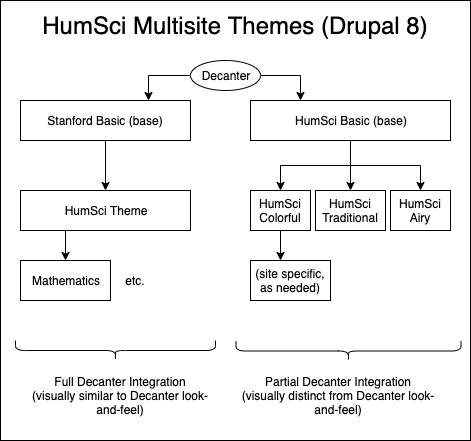
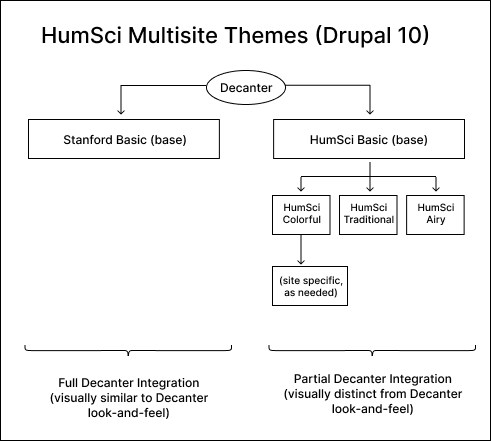
fix(shs-6015): review and update humsci basic readme

diff --git a/docroot/themes/humsci/humsci_basic/readme.md b/docroot/themes/humsci/humsci_basic/readme.md
@@ -1,13 +1,13 @@
 # Humsci Basic (humsci_basic) Theme
 
-Humsci Basic (humsci_basic) is a theme that can be used as a base for future H&S themes. We have pulled patterns and templates for Humsci Basic from Stanford Basic (stanford_basic) and Stanford University Humsci Theme (su_humsci_theme) Themes. Humsci Basic integrates selectively with Decanter (v6) Sass, styles, and patterns.
+Humsci Basic (humsci_basic) is a theme that can be used as a base for future H&S themes. We have pulled patterns and templates for Humsci Basic from Stanford Basic (stanford_basic) Theme. Humsci Basic integrates selectively with Decanter (v6) Sass, styles, and patterns.
 
 ![Humsci Theme Diagrams](humsci-theme-diagram.png)
 
 ## Requirements
 
-- Drupal 8.7.10
-- Node 10.15+
+- Drupal 10.3.0
+- Node 22
 
 ## Sub-themes
 
@@ -28,7 +28,7 @@ This theme contains its own node module dependencies and build system which is s
 Frontend assets are built using the Grunt task runner, but are run using npm scripts as shortcuts. CSS assets are compiled to their respective child theme `css/` directory. JS assets are compiled to the `scripts/build/scripts.js` file.
 
 - `npm start` - Runs the build task followed by the watch task
-- `npm run build` - Compile Sass  and JS for production
+- `npm run build` - Compile Sass and JS for production
 - `npm run watch` - Compile a CSS and JS build and watch for changes in the existing `.scss` or `.js` files
 
 ### Browserslist
@@ -66,7 +66,7 @@ We use the [Sass True](https://github.com/oddbird/true) testing framework to tes
 
 ### Linting
 
-We use [stylelint](https://stylelint.io/) to lint all of our Sass code to maintain a consistent code style.
+We use [stylelint](https://stylelint.io/) to lint all of our Sass code to maintain a consistent code style. To test it you can run: `npm run lint:sass`
 
 Our linting rules use the [Sparkbox Stylelint Config](https://github.com/sparkbox/stylelint-config-sparkbox) as a base for our linting rules.
 
@@ -106,21 +106,23 @@ _Note: Differences in content will also be reported as failures. Some failures c
 To make it easier to find work being done we should use the following naming conventions:
 
 ### Branch Names:
-`STN-XXX--descriptive-message`
+`SHS-XXX--descriptive-message`
 
 #### Commit Messages:
-`feat(STN-XXX): descriptive message shorter than 80 chars`
-`fix(STN-XXX): descriptive message shorter than 80 chars`
-`refactor(STN-XXX): descriptive message shorter than 80 chars`
-`chore(STN-XXX): descriptive message shorter than 80 chars`
-`docs(STN-XXX): descriptive message shorter than 80 chars`
+`feat(SHS-XXX): descriptive message shorter than 80 chars`
+`fix(SHS-XXX): descriptive message shorter than 80 chars`
+`refactor(SHS-XXX): descriptive message shorter than 80 chars`
+`chore(SHS-XXX): descriptive message shorter than 80 chars`
+`docs(SHS-XXX): descriptive message shorter than 80 chars`
 
 https://www.conventionalcommits.org/en/v1.0.0-beta.2/
 
 #### Pull Request Titles:
-`STN-XXX: Short Descriptive Titles`
+`SHS-XXX: Short Descriptive Titles`
 
 Pull request descriptions should follow the PR template that is generated when creating a new commit.
+
+There's a Tugboat implementation that build previews for some sites to help reviewing the work done in the PR.
 
 #### Green Button Merging:
 After receiving a review and getting a PR approved, we do green-button merges for our PRs ("Rebase and Merge") because Github includes a link to the PR in our commit message header.
@@ -129,7 +131,7 @@ After receiving a review and getting a PR approved, we do green-button merges fo
 
 This theme aims to **partially** integrate [Decanter](https://github.com/SU-SWS/decanter). Instead of rendering all the styles generated by Decanter we:
 
-- Import variables, function and mixins
+- Import some variables, function and mixins
 - Compile various helpers classes
 - Compile specific components such as Brand Bar, Logo, Lockup and Footer
 